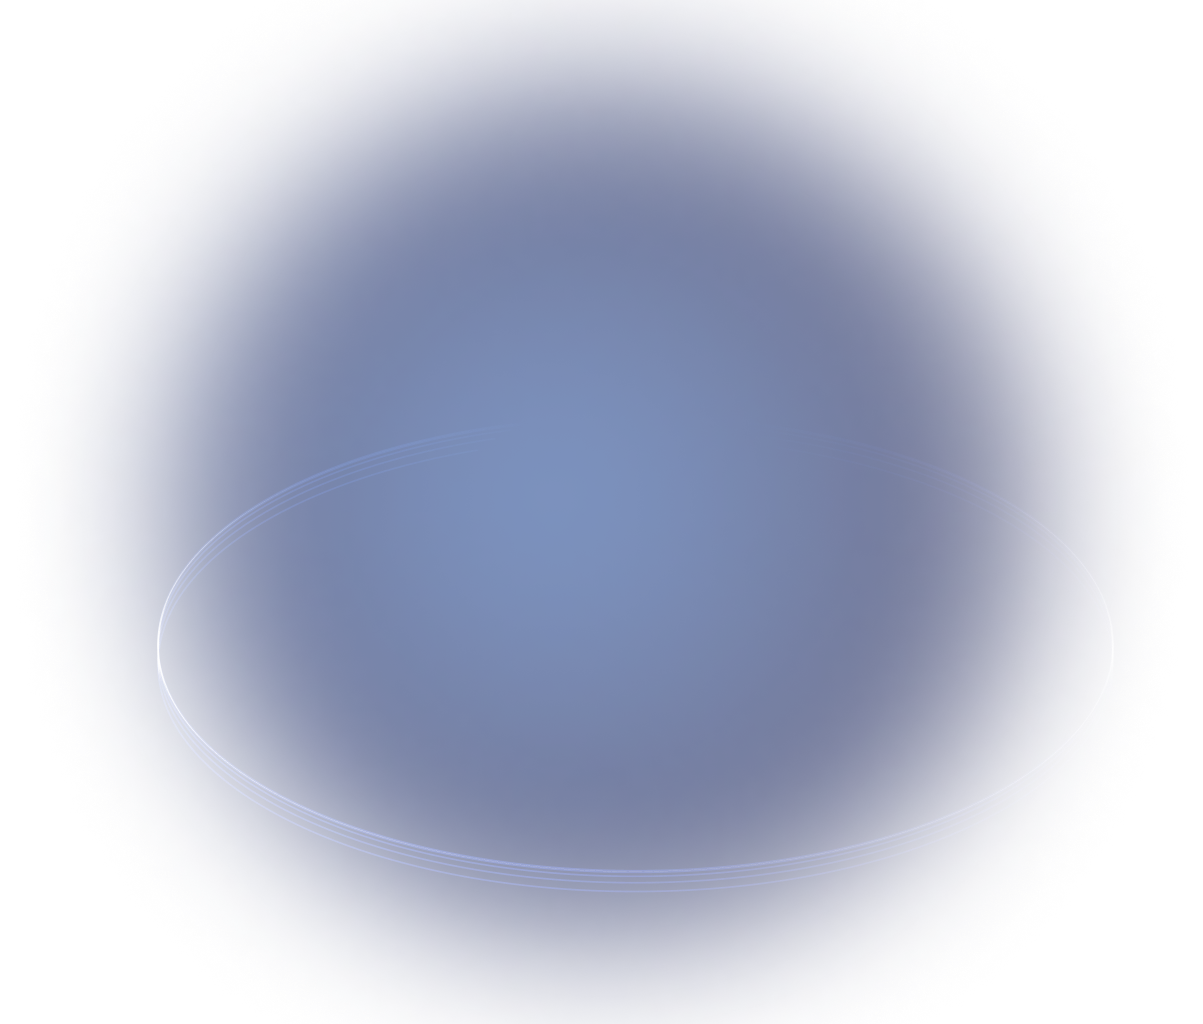
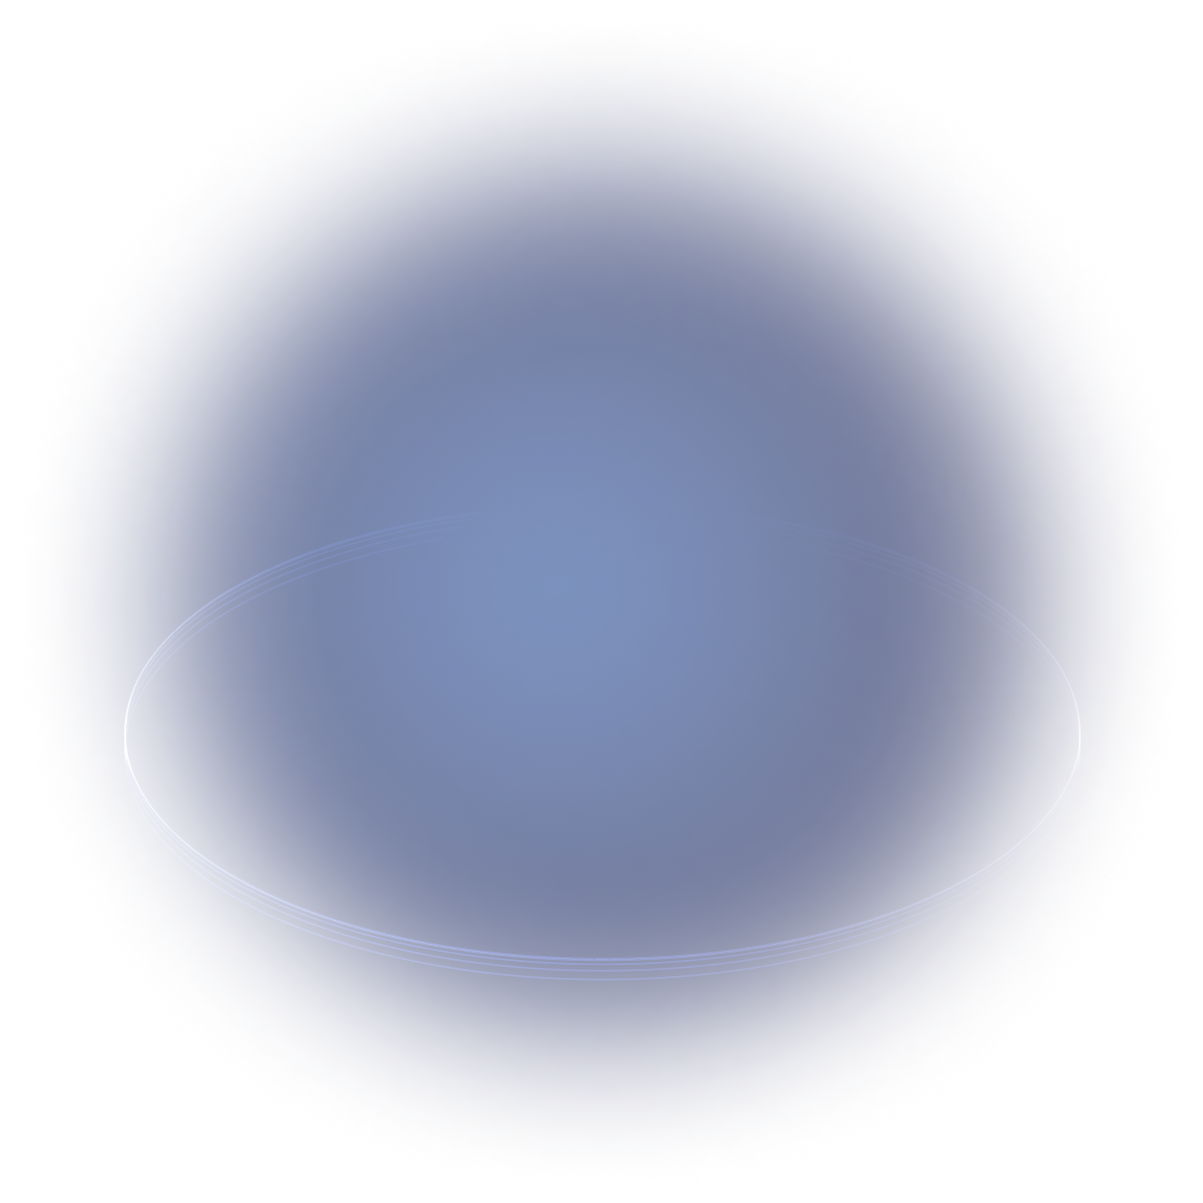
adicionando detalhe sobre mim

Changed region(s): [[0.2153, 0.75, 0.7689, 1.0], [0.2153, 0.0, 0.7689, 0.25], [0.1845, 0.7188, 0.2153, 0.75]]

diff --git a/styles/aboutMe.css b/styles/aboutMe.css
@@ -1,3 +1,12 @@
+.about-me {
+  height: 1024px;
+  display: flex;
+  align-items: center;
+  background-image: url("../images/backgrounds/Background-aboutme.png");
+  background-repeat: no-repeat;
+  background-position: center;
+}
+
 .about-me .circle {
   margin: 0 auto;
   max-width: 630px;
@@ -9,6 +18,32 @@
   grid-template-columns: 280px 1fr;
   align-items: center;
 
-  font: 400 1.1rem/1.3 "Poppins", sans-serif;
+  font: 400 1.1rem/1.4 "Poppins", sans-serif;
   color: var(--color-text1);
+
+  position: relative;
+}
+
+.about-me .circle::after {
+  content: "";
+  width: 362px;
+  height: 358px;
+  background-image: url("../images/aboutme-detalhe.png");
+  background-repeat: no-repeat;
+  background-size: cover;
+  position: absolute;
+  bottom: -50px;
+  right: -180px;
+}
+
+@media (max-width: 860px) {
+  .about-me .circle::after {
+    display: none;
+  }
+}
+
+@media (max-width: 800px) {
+  .about-me {
+    background-image: none;
+  }
 }

diff --git a/styles/patterns.css b/styles/patterns.css
@@ -28,20 +28,23 @@ img {
 }
 
 .container {
-  margin: 300px auto;
+  margin: 200px auto;
   max-width: 1200px;
   padding: 0 40px;
+  display: flex;
+  align-items: center;
 }
 
 @media (max-width: 800px) {
   .container {
-    margin: 50px auto;
+    margin: 150px auto;
+    height: max-content;
   }
 }
 
 @media (max-width: 500px) {
   .container {
-    margin: 100px auto;
+    margin: 200px auto;
     padding: 16px;
   }
 }

diff --git a/styles/introduction.css b/styles/introduction.css
@@ -15,7 +15,7 @@
 }
 
 .introduction h1 span {
-  color: var(--color-3);
+  color: var(--color-5);
 }
 
 @media (max-width: 820px) {
@@ -27,6 +27,10 @@
 }
 
 @media (max-width: 500px) {
+  .introduction div {
+    margin: auto;
+  }
+
   .introduction h1 {
     margin: auto;
     margin-bottom: 30px;

diff --git a/styles/utilities/colors.css b/styles/utilities/colors.css
@@ -7,6 +7,7 @@
   --color-2: #2f2f8a;
   --color-3: #c961de;
   --color-4: #2954a3;
+  --color-5: #4986f8;
 
   --color-text1: #ffffff;
   --color-text2: rgba(255, 255, 255, 0.7);
